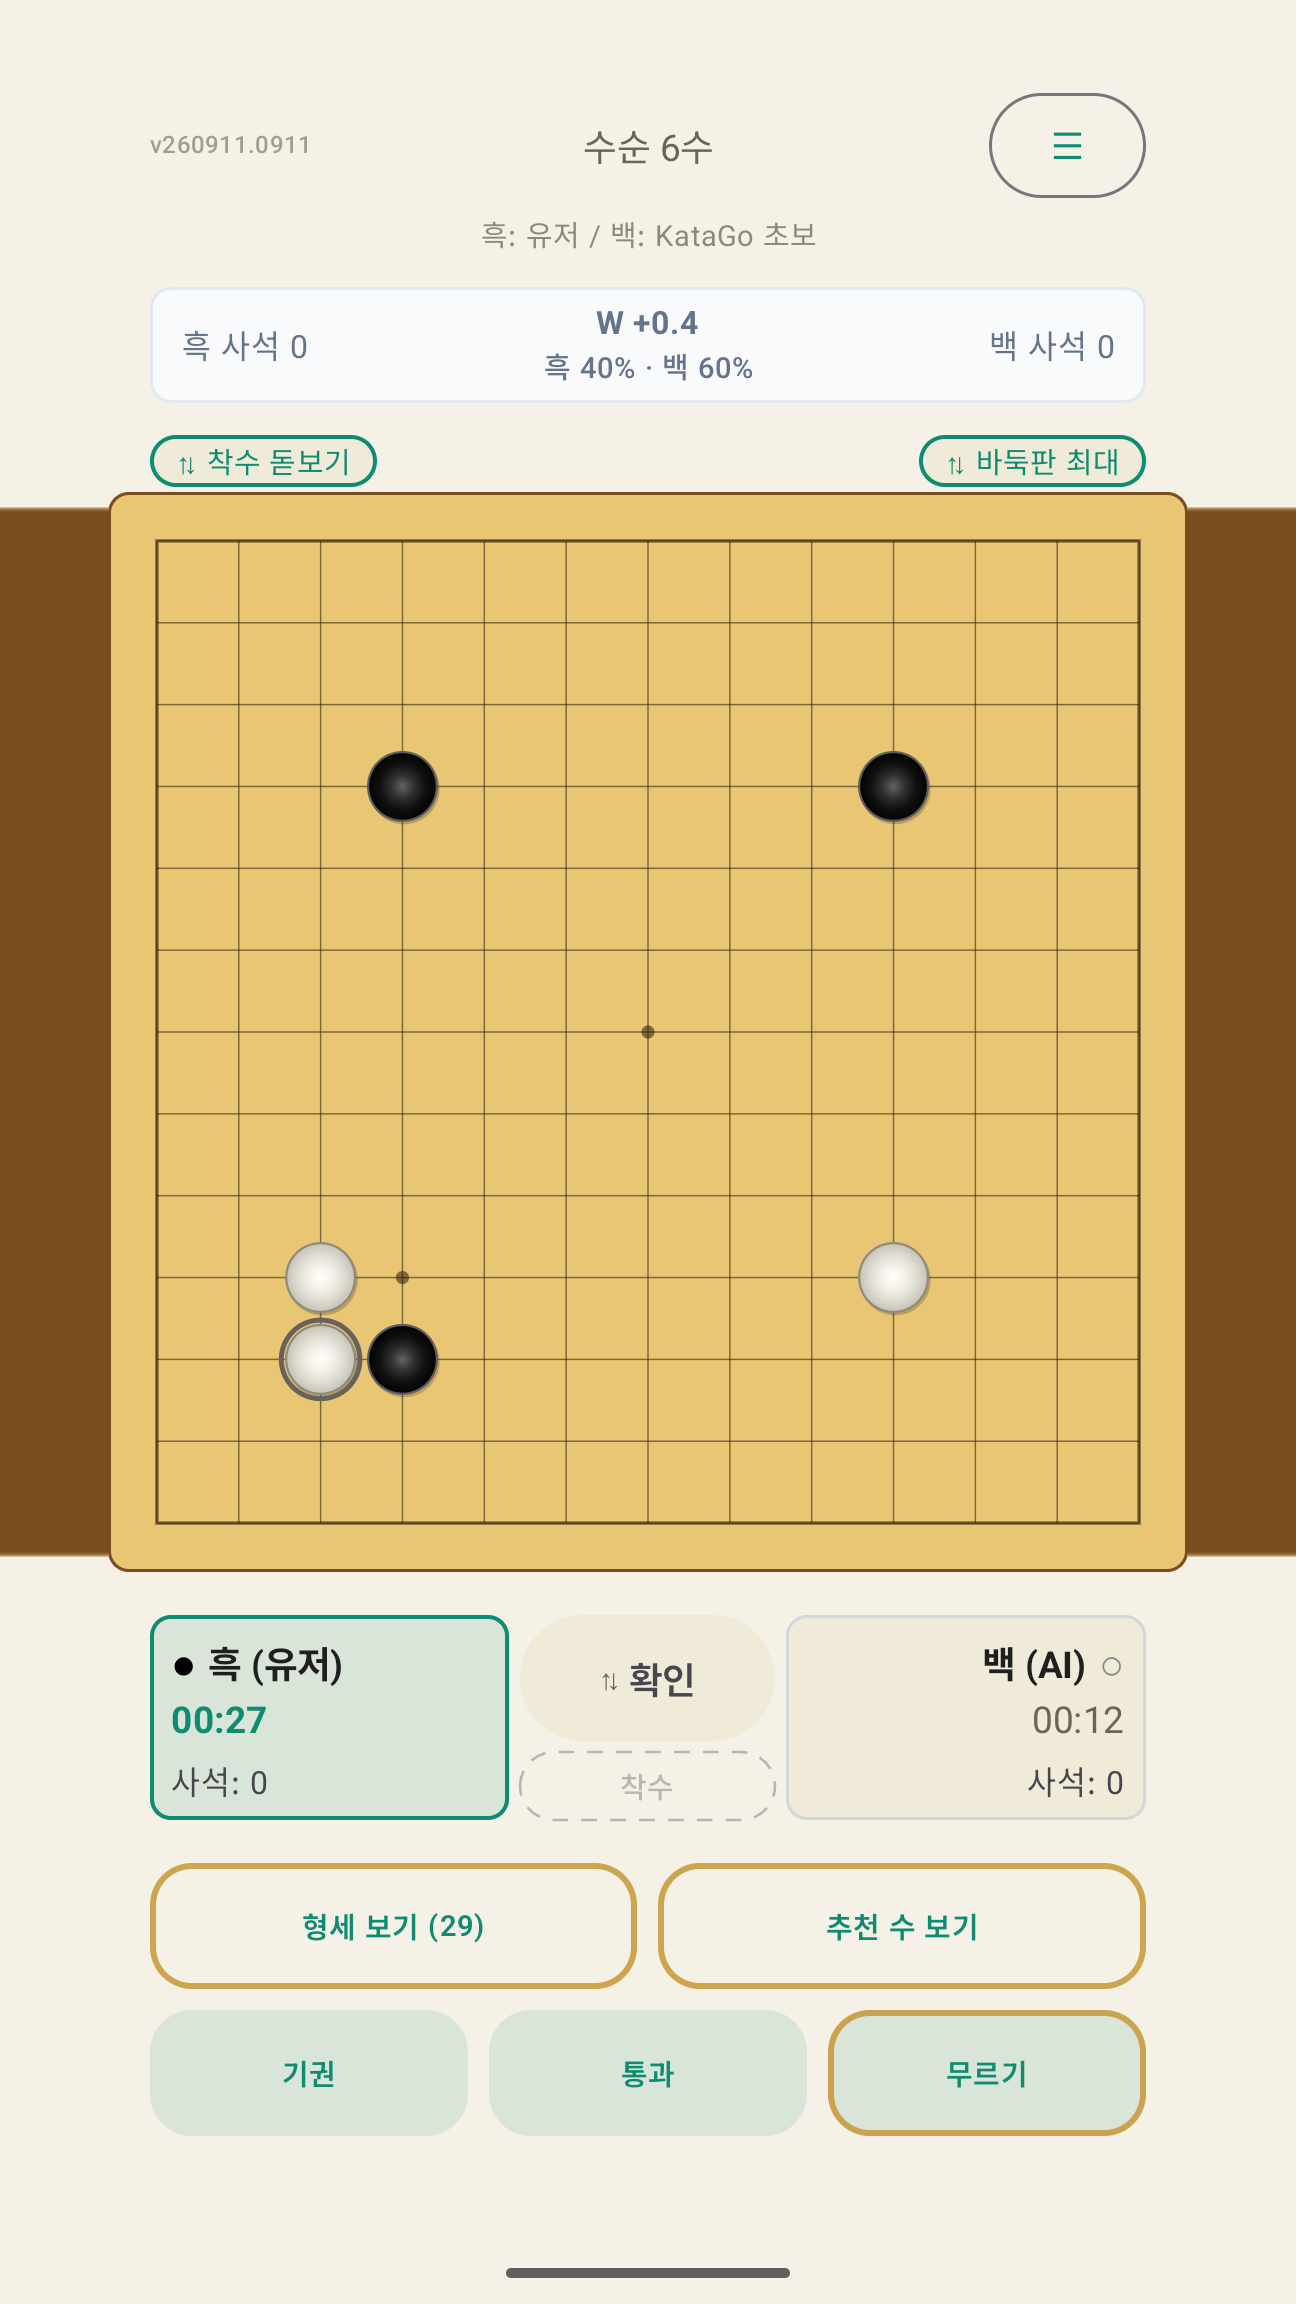
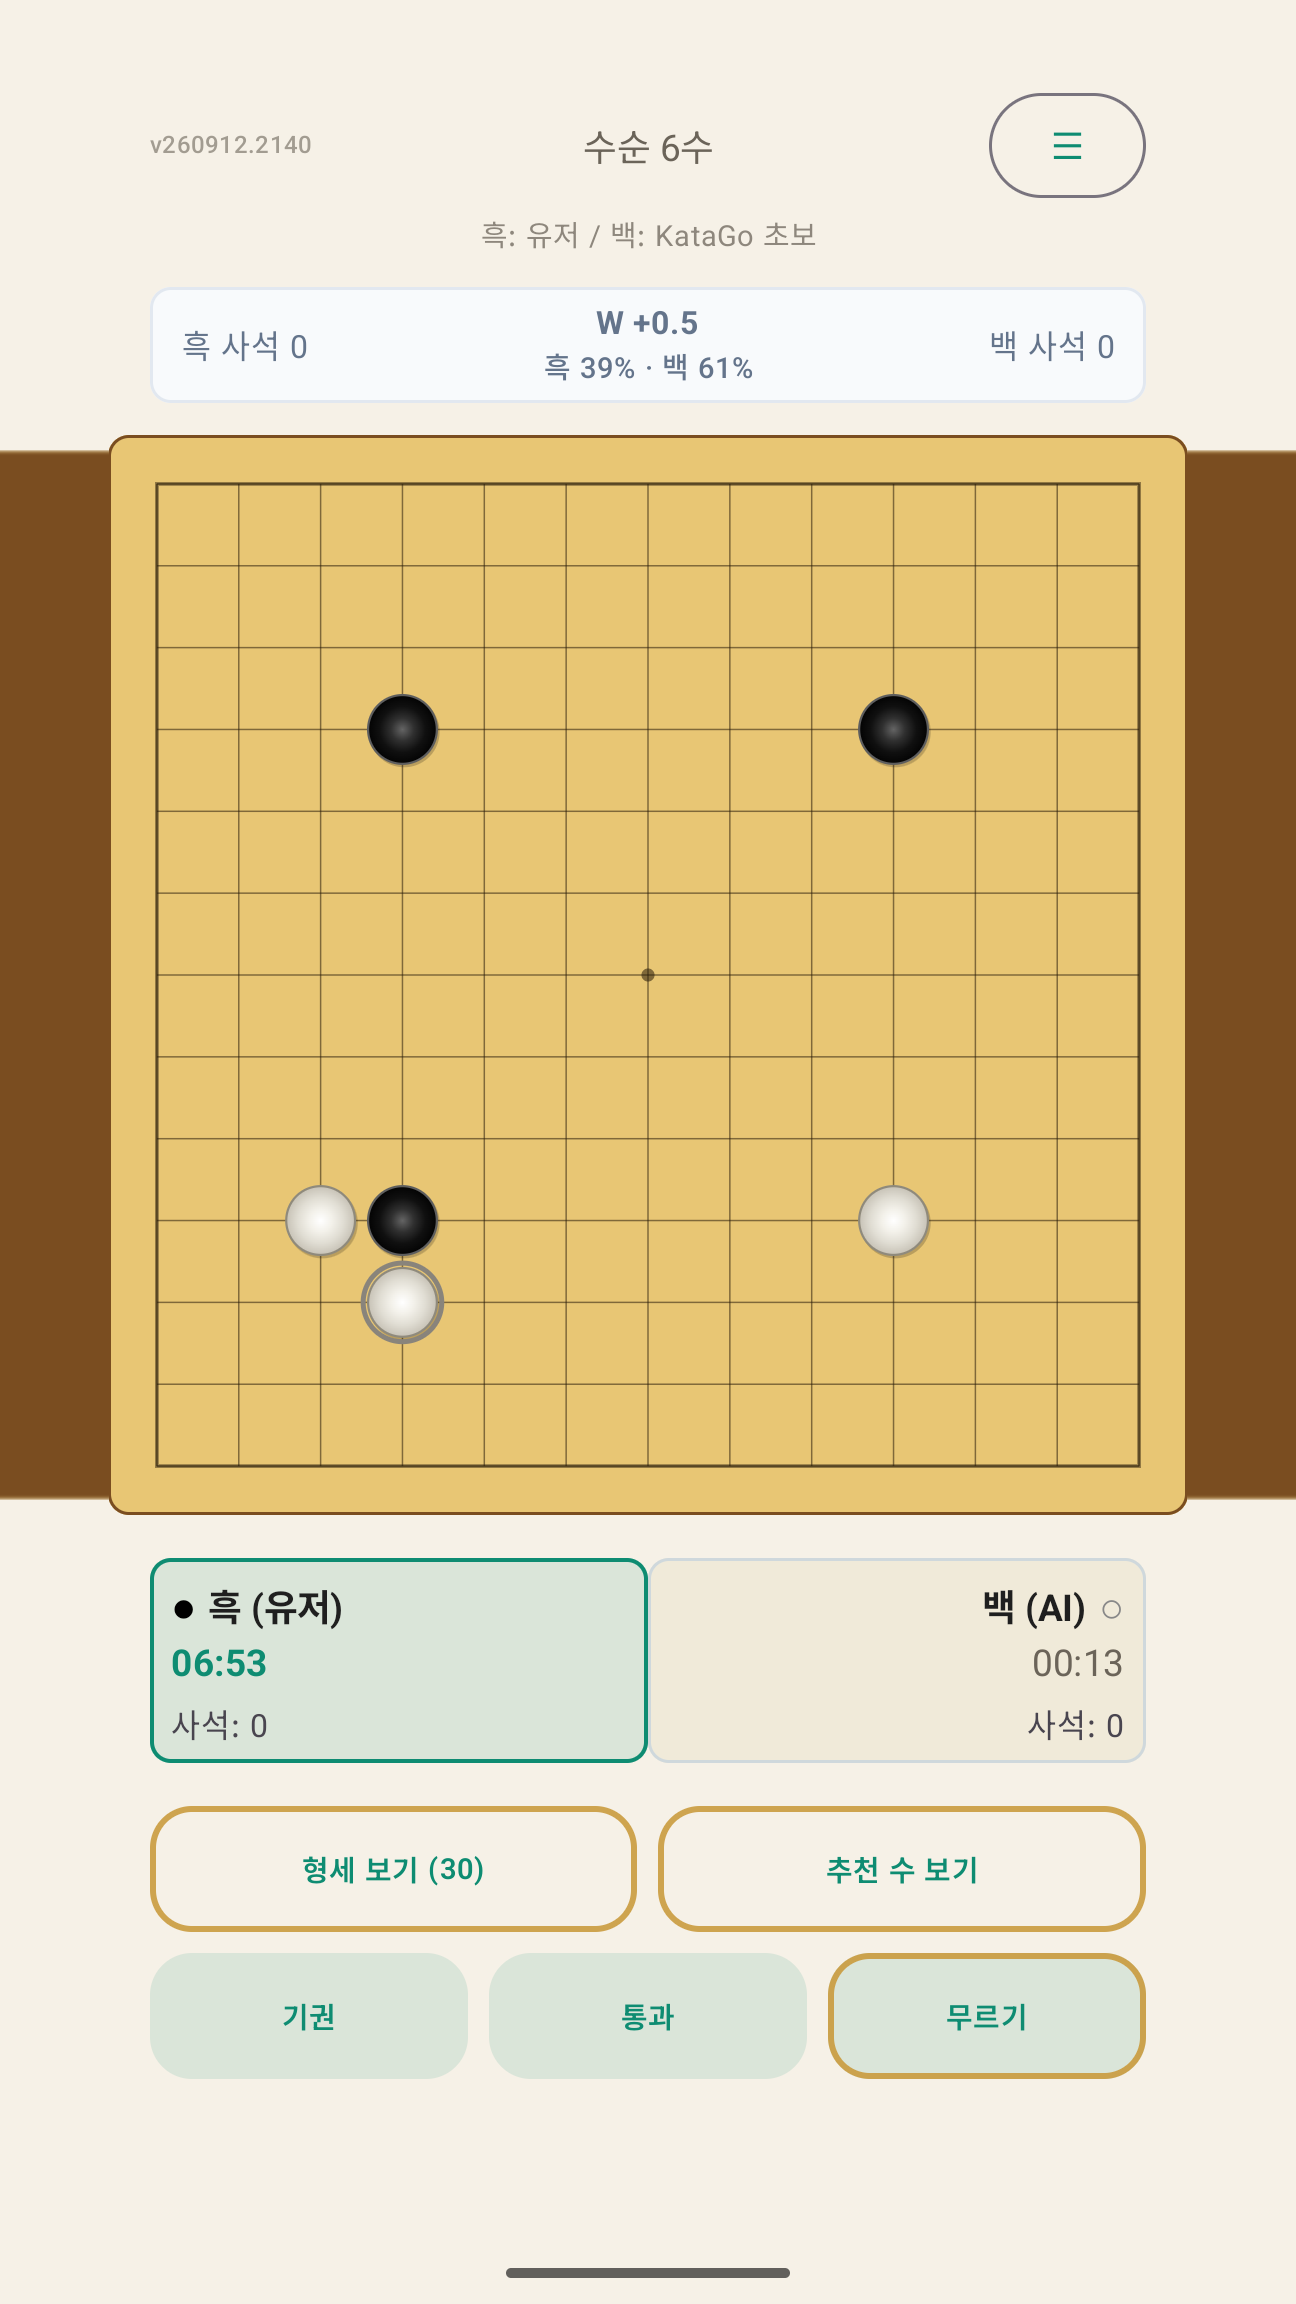
assets(store): 05·06 스크린샷 재캡처 — #143이 바꾼 조작부 반영
**확인만 할 대상이 아니라 교체 대상이었다.** #143이 판 위 토글 둘(`착수 돋보기`·
`바둑판 최대`)을 ☰ 메뉴로 옮기고 좌석 사이의 `확인 / 착수` 칸을 UX에서 지웠는데,
커밋된 두 컷에는 그 셋이 그대로 찍혀 있었다 — 설치하면 없는 버튼이 스토어에 남아
있던 셈이다. 목록의 "확인만" 분류를 믿지 말고 컷을 열어 봐야 했다.

- `05_gameplay`: 13x13 · 호선 · 6수. 흑이 세 화점(4-4·10-4·4-10)에 벌린 넓은 포석,
  `W +0.5`, 1회권 `(30)`.
- `06_eval_coaching`: 같은 국면에서 형세 보기 ON → 영역 음영 + 1회권 30→29.

사용자가 준 두 갈래 중 **사람 vs AI**를 택했다 — 좌석의 `백: KataGo 초보`가 이 앱의
핵심 신호이고 `04_character_picker`와도 결이 맞는다. 넓은 포석은 흑이 화점을 차지하게
해서 만들었고 추천수 API는 쓰지 않았다(엔진 대기·변동성이 재현을 흔든다).
⚠ 수순은 **6수**에서 멈췄다 — AI가 넷째 화점을 먼저 차지해 8수까지 끌면 흑의 네 귀가
완성되지 않고 국면만 좁아진다. 선례(2026-09-11 2차)도 6수다.

캡처 조건은 기존과 같다(Pixel 7 API 35, 1080x2400, density 420, 한국어,
font_scale 1.0 확인, 1.5초 대기). 빌드 태그 `v260912.2140`.
⚠ `wm size`로 1296x2304를 흉내내려 했다가 되돌렸다 — 기존 컷은 네이티브로 찍고
**변환**한 것이고, 해상도를 덮으면 dp 폭이 달라져 나머지와 어긋난다. README에 적었다.

✅ **변환 규격을 캡처 전에 증명했다** — 커밋된 `05`에서 본문 1080x2304를 떼어내 같은
패딩 규칙으로 재조립하니 원본과 차이 영역이 `None`(픽셀 단위 동일)이었다.

⚠ `dist/play-store-assets/`는 `.gitignore` 대상이라 이 커밋에 없다 — 그 세 곳도 같은
파일로 갱신했고 sha256이 `export/`와 일치하지만, **콘솔 업로드용 로컬 스테이징**이다.

⛔ `01_landing`은 여전히 미교체 — #140이 그 화면을 없앴다. 업로드 전 필수.

diff --git a/docs/work/roadmap/260911-_ACTIVE_BACKLOG.md b/docs/work/roadmap/260911-_ACTIVE_BACKLOG.md
@@ -278,8 +278,11 @@
       · 대체 후보: 대국 설정의 첫돌이 안내 카드(#140 새 문구).
       · ⚠ **규격이 1296x2304라 에뮬레이터(1080x2400) 캡처를 그대로 못 쓴다** — 별도 캡처·리사이즈 작업이고,
         스토어에 나갈 그림이므로 **어느 화면으로 대체할지 사용자 확인 뒤** 진행할 것.
-      · 나머지 다섯 장은 달라진 것이 있는지만 확인 — 보통 폰의 대국 화면은 그대로다(#139는 넘칠 때만 판을 줄인다).
-        ⚠ 다만 #143이 판 위 토글 둘을 메뉴로 옮겼으므로 `05_gameplay`·`06_eval_coaching`은 **다시 볼 것.**
+      · ✅ **`05_gameplay`·`06_eval_coaching`은 2026-09-12에 재캡처했다** — 확인만 할 대상이 아니라
+        **교체 대상이었다**(#143이 판 위 토글 둘과 `확인/착수` 칸을 없앴는데 옛 컷에 그대로 찍혀 있었다).
+        13x13 호선 6수, 흑 세 화점의 넓은 포석, 형세 보기 ON 컷은 1회권 30→29. 네 곳 sha256 일치.
+        사유와 재현 절차는 `README.md`의 2026-09-12 회차에 적었다.
+      · 나머지 세 장(`02`·`03`·`04`)은 달라진 것이 있는지 확인만 — 그 화면들은 #143과 무관하다.
     - 참고(#140): 첫 실행의 언어 선택이 사라졌다 — 기본 한국어, ⚙ 설정에서 바꾼다. 등록정보가 한국어뿐이라 당장 영향은 작다.
     - 참고(#141): 콘솔에는 **태블릿·폴더블 스크린샷 슬롯이 따로** 있다. 넓은 배치가 들어갔으니 그 슬롯을 채울 수 있다 —
       필수는 아니지만(폰 컷만으로도 게시된다) 큰 화면 사용자에게 보이는 첫 인상이 달라진다. 넣기로 하면 폴드 안쪽 세로
